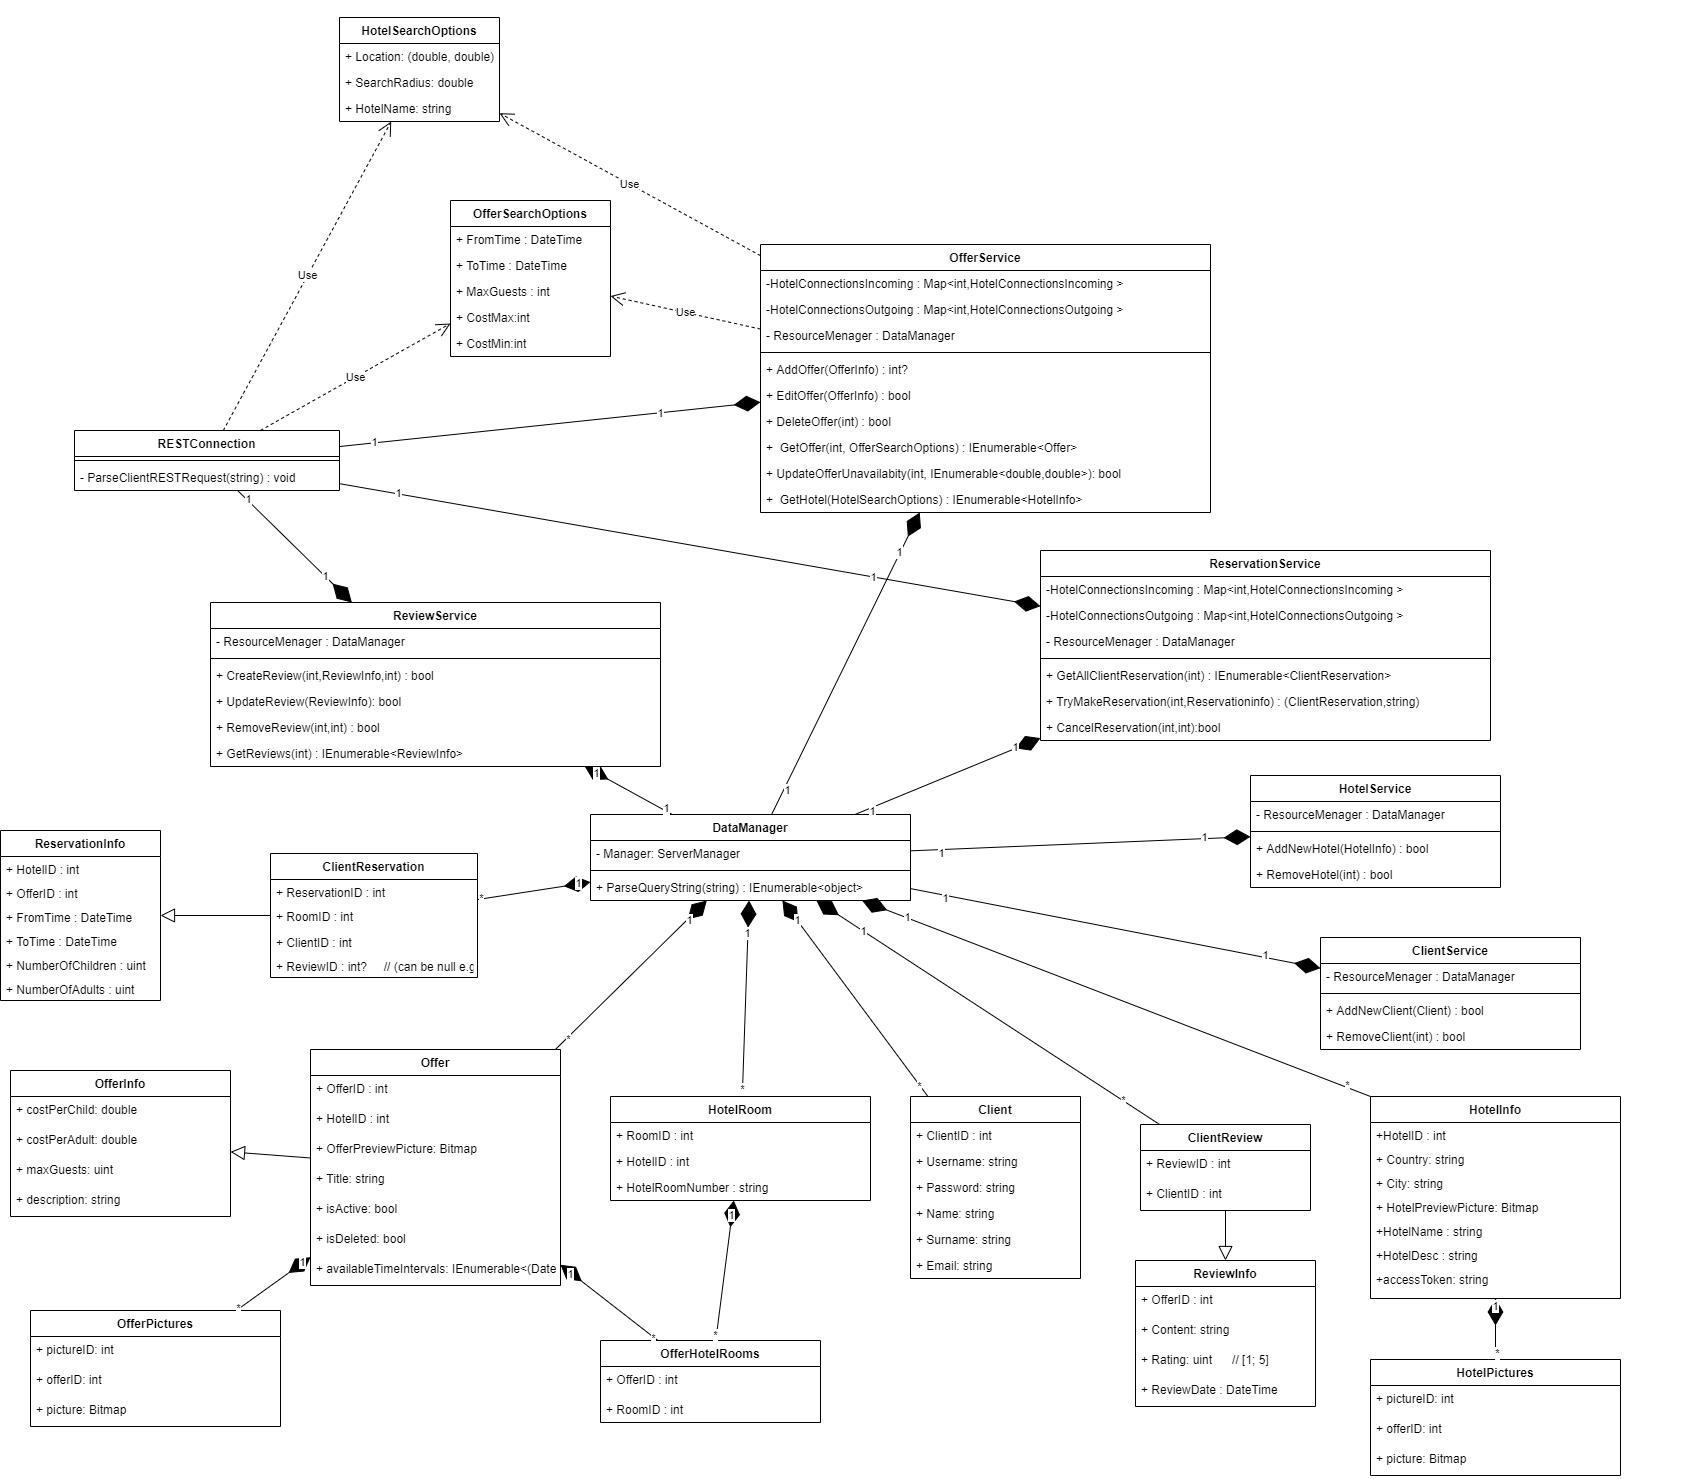
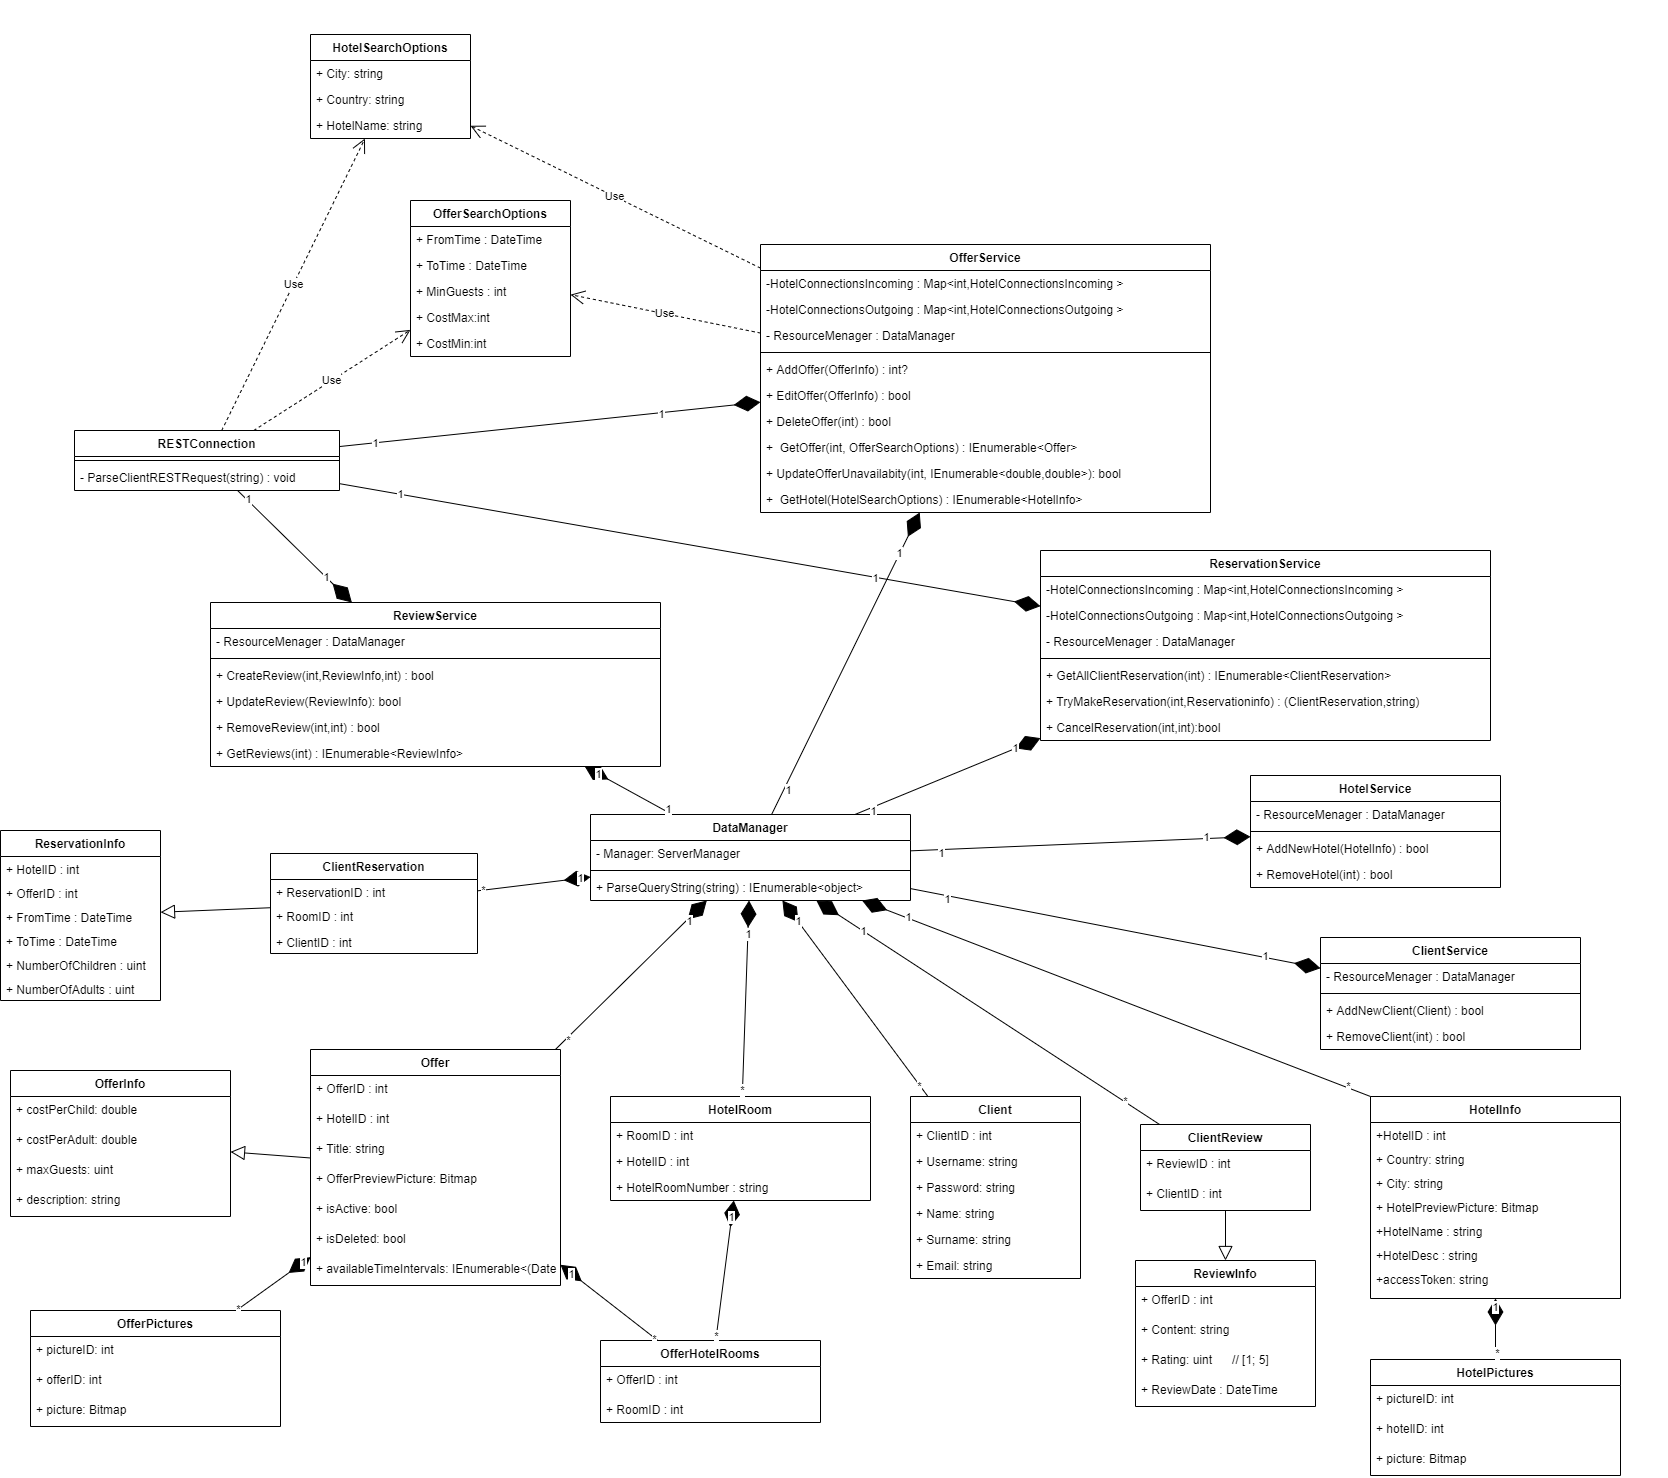
Update specification.md (server class diagram and description)

diff --git a/specification.md b/specification.md
@@ -684,22 +684,12 @@ Klasa przetrzymująca wszystkie informacje o opinii.
 
 ### OfferInfo
 
-Klasa przechowuje informacje opisujące daną ofertę bez informacji o jej
-identyfikatorze oraz stanu dotyczącego aktywności.
+Klasa przechowuje informacje opisujące daną ofertę
 
-### Offer
-
-Klasa przechowuje informacje dotyczące różnych rodzajów ofert, jakie
-proponuje właściciel hotelu swoim potencjalnym klientom. Ponadto
-przechowywana jest informacja o tym czy oferta jest aktywna oraz jej
-identyfikator.
-
-### Room
+### RoomInfo
 
 `Pokój` jest klasą, która reprezentuje fizyczny pokój obecny w budynku
-hotelowym. Jego identyfikacja leży całkowicie w gestii zarządcy
-hotelowego. Ma odwołanie do `Offer`, w ramach której jest przedstawiany
-na stronie.
+hotelowym.
 
 ### Client
 
@@ -731,96 +721,6 @@ wszystkich opisanych wyżej klas.
 Przechowuje informacje o danym hotelu, takie jak lokalizacja, nazwa czy
 jego opis.
 
-### ServerConnectionIncoming
-
-Klasa stanowiąca pomost w komunikacji między hotelem oraz serwerem dla
-wiadomości inicjowanych przez serwer. Głównym zadaniem tej klasy jest
-więc interpretacja żądań formułowanych przez serwer, ich przetwarzanie i
-zwrócenie stosownych informacji za pomocą metody **SendMessage** czy też
-dalsza komunikacja z modułem serwera. Metody:
-
--   Login\
-    Metoda wywoływana w czasie nawiązywania połączenia ze stosownym
-    gniazdem sieciowym po stronie serwera. Do autentykacji używany jest
-    nadany hotelowi authenticationKey. Zwraca boola czy operacja się
-    powiodła.
-
--   SendMessage\
-    Podstawowy sposób wysyłania wiadomości do serwera. Wiadomość jest
-    przekazywana do metody jako parametr typu string. Metoda ta ma na
-    celu zagwarantowanie poprawnego przesyłu danych (np. ponawianie prób
-    wysyłania w przypadku chwilowego przerwania połączenia). Zwracany
-    jest typ bool, który mówi o udanym transferze danych przez gniazdo
-    sieciowe.
-
--   ParseServerMessage\
-    W tej metodzie analizowana jest wiadomość wysłana przez serwer.
-    Poprzez interpretację otrzymanego kodu operacyjnego następuję
-    rozpoznanie rodzaju żądania i jego stosowna obsługa w oparciu o
-    przesłane parametry.
-
-### ServerConnectionOutgoing
-
-Klasa stanowiąca pomost w komunikacji między hotelem oraz serwerem dla
-wiadomości inicjowanych przez hotel. Metody wewnątrz tej klasy są
-kluczowe dla poprawnej synchronizacji danych pomiędzy modułami
-hotel-serwer. Ponadto występują metody implementujące procesy biznesowe
-i związane z nimi procesy komunikacji. W prywatnym polu ProcessList
-przechowywane są aktualnie przetwarzane procesy biznesowe wraz z kodem
-operacyjnym ostatniej wysłanej wiadomości i jej treścią (informacje te
-są potrzebne do rozróżnienia tych samych procesów biznesowych oraz
-aktualnego kontekstu danego procesu biznesowego i oczekiwanych kodów
-operacyjnych w wiadomościach zwrotnych, a także dalszej obsługi
-wychodzącego żądania po otrzymaniu pozytywnej odpowiedzi od serwera).
-Każda metoda związana z procesem biznesowym wywołuje odpowiednie metody
-klasy HotelManager i w zależności od sukcesu lub rodzaju błędu
-otrzymanego od HotelManager (np. w postaci wyjątku określonego typu)
-tworzy żądania i odpowiedzi o odpowiednich kodach operacyjnych
-jednocześnie implementując cały ciąg wiadomości (i związanych z nimi
-kodami operacyjnymi) oraz obsługę błędów związaną z danym procesem
-biznesowym. Metody:
-
--   Login\
-    Metoda wywoływana w czasie nawiązywania połączenia ze stosownym
-    gniazdem sieciowym po stronie serwera. Do autentykacji używany jest
-    nadany hotelowi authenticationKey. Zwraca boola czy operacja się
-    powiodła.
-
--   ParseServerMessage\
-    W tej metodzie analizowana jest odpowiedź serwera związana z danym
-    ID kontekstu procesu. ID kontekstu procesu jest szukane w prywatnym
-    polu ProcessList w celu zidentyfikowania ostatniej wysłanej
-    wiadomości i odtworzenia kontekstu procesu biznesowego. W zależności
-    od otrzymanej odpowiedzi proces może się zakończyć lub mogą zostać
-    ponownie wywołane odpowiednie metody z klasy HotelManager, utworzona
-    nowa wiadomość (żądanie) i kontynuacja procesu biznesowego.
-
--   SendMessage\
-    Podstawowy sposób wysyłania wiadomości do serwera. Wiadomość jest
-    przekazywana do metody jako parametr typu string. Metoda ta ma na
-    celu zagwarantowanie poprawnego przesyłu danych (np. ponawianie prób
-    wysyłania w przypadku chwilowego przerwania połączenia). Zwracany
-    jest typ bool, który mówi o udanym transferze danych przez gniazdo
-    sieciowe.
-
--   AddOffer\
-    Metoda dodaje do serwerowej i hotelowej bazy danych nową ofertę
-    stworzoną przez managera konta hotelowego (w przypadku sukcesu).\
-    Zwraca wartość bool określającą, czy operacja się powiodła oraz ID,
-    jakie przyjęła oferta po stronie serwera.
-
--   RemoveOffer\
-    Metoda usuwa z serwerowej oraz hotelowej bazy danych ofertę
-    przekazaną jako argument (w przypadku sukcesu).\
-    Zwraca wartość bool określającą, czy operacja się powiodła.
-
--   ActivateOffer, DeactivateOffer\
-    Metoda aktualizuje dostępność oferty przekazanej jako argument
-    metody. Administrator hotelu może ofertę dowolnie zdezaktualizować
-    lub zaktualizować ponownie, manipulując w ten sposób wachlarzem
-    propozycji dla swoich potencjalnych klientów (więcej nt. stanów
-    klasy Offer patrz: (offerStateDiagram)
-    Zwraca wartość bool określającą, czy operacja się powiodła.
 
 ### HotelManager
 
@@ -888,20 +788,7 @@ ServerConnectionOutgoing. Metody:
 ### Client
 
 Klasa trzyma informacje o kliencie. Przedstawia jeden rekord z bazy
-danych.
-
-### ClientConnection
-
-Klasa ta to interfejs sieciowy pomiędzy aplikacją kliencką i serwerem.
-Klasa w metodzie `ParseClientRESTRequest` implementuje procesy biznesowe
-związane z REST API, z których korzystają klienci. W zależności od
-żądania wywoływane są odpowiednie metody klasy ServerManager i zwracane
-są klientowi dane lub błąd (co wynika np. ze zwrócenia błędu przez
-odpowiednią metodę klasy ServerManager, bądź wyrzuceniem określonego
-typu wyjątku). Klasa ta może również przekazać żądanie do konkretnego
-hotelu wykorzystując metodę `GetHotelConnection` w ramach dalszej
-realizacji określonego procesu biznesowego (np. tworzenie rezerwacji)
-jednocześnie oczekując na odpowiedź od hotelu.
+danych. W tabeli tej znajduję się równiez informacje potrzebne to zalogowania klienta do serwisu.
 
 ### DataManager
 
@@ -911,7 +798,8 @@ ServerManager.
 
 ### HotelInfo
 
-Klasa trzymająca informacje o hotelach korzystających z serwisu.
+Klasa trzymająca informacje o hotelach korzystających z serwisu wraz z tokenami dostępu dla każdego hotelu.
+Z tabelą tą związana jest tabela `HotelPictures`, w której przechowywane są zdjęcia danego hotelu.
 
 ### HotelSearchOptions
 
@@ -938,11 +826,18 @@ identyfikatorze oferty.
 
 ### Offer
 
-Klasa trzymająca wszystkie informacje o ofercie oraz dodatkowo
-informacje o przedziałach czasowych, w których oferta jest niedostępna.
-Informacja ta jest otrzymywana na bieżąco od hotelu w ramach procesu
-synchronizacji danych. ID oferty jest unikatowe w obrębie jednego hotelu
-(nie globalnie).
+Klasa trzymająca wszystkie informacje o ofercie wraz ze zdjęciami związanymi z tą ofertą w tabeli `OfferPictures` oraz dodatkowo
+informacje o przedziałach czasowych, w których oferta jest dostępna.
+
+### OfferHotelRooms
+
+Klasa reprezentująca tabelę przetrzymującą informację o pokojach hotelowych, w których mogą
+się odbywać rezerwacje w ramach określonych ofert
+
+### HotelRoom
+
+Klasa reprezentjąca tabelę przetrzymująca informację o dostępnych pokojach hotelowych wraz
+z lokalnie adanym identyfikatorem hotelowym danego pokoju (HotelRoomNumber)
 
 ### ReviewInfo
 
@@ -951,77 +846,7 @@ opinii bądź przynależności opinii do konkretnego użytkownika.
 
 ### ClientReview
 
-Zawiera wszystkie informacje o pojedynczej opinii.
-
-### HotelConnectionIncoming
-
-Klasa stanowiąca pomost w komunikacji między hotelem oraz serwerem dla
-wiadomości inicjowanych przez hotel. Głównym zadaniem tej klasy jest
-więc interpretacja żądań formułowanych przez hotel, ich przetwarzanie i
-zwrócenie stosownych informacji za pomocą metody **SendMessage** czy też
-dalsza komunikacja z modułem serwera.
-
--   SendMessage\
-    Podstawowy sposób wysyłania wiadomości do hotelu. Wiadomość jest
-    przekazywana do metody jako parametr typu string. Metoda ta ma na
-    celu zagwarantowanie poprawnego przesyłu danych (np. ponawianie prób
-    wysyłania w przypadku chwilowego przerwania połączenia). Zwracany
-    jest typ bool, który mówi o udanym transferze danych przez gniazdo
-    sieciowe.
-
--   ParseServerMessage\
-    W tej metodzie analizowana jest wiadomość wysłana przez hotel.
-    Poprzez interpretację otrzymanego kodu operacyjnego następuję
-    rozpoznanie rodzaju żądania i jego stosowna obsługa w oparciu o
-    przesłane parametry.
-
-### HotelConnectionOutgoing
-
-Klasa reprezentująca procesy biznesowe, dla których żądania wysyłane są
-z serwera do hotelu. Każda instancja tej klasy zawiera informacje o
-hotelu, w ramach którego utrzymywane jest połączenie sieciowe (pole
-Hotel). Ponadto zawarte jest prywatne pole ProcessList, w którym zawarte
-są informacje o wszystkich bieżąco realizowanych procesach biznesowych
-wraz z ich ID kontekstu, kodem ostatnio wysłanej wiadomości oraz danymi
-związanymi z ostatnio wysłaną wiadomością. Metody:
-
--   ParseHotelMessage\
-    W tej metodzie analizowana jest odpowiedź hotelu związana z danym ID
-    kontekstu procesu. ID procesu jest wiązane z ID procesu zapisanym w
-    polu ProcessList. W zależności od otrzymanej odpowiedzi proces może
-    się zakończyć lub mogą zostać ponownie wywołane odpowiednie metody z
-    klasy ServerManager, utworzona nowa wiadomość (żądanie) i
-    kontynuacja procesu biznesowego.
-
--   SendMessage\
-    Podstawowy sposób wysyłania wiadomości do hotelu. Wiadomość jest
-    przekazywana do metody jako parametr typu string. Metoda ta ma na
-    celu zagwarantowanie poprawnego przesyłu danych (np. ponawianie prób
-    wysyłania w przypadku chwilowego przerwania połączenia). Zwracany
-    jest typ bool, który mówi o udanym transferze danych przez gniazdo
-    sieciowe.
-
--   MakeReservation\
-    Metoda, która tworzy proces związany z utworzeniem nowej rezerwacji.
-    Wysyłane jest odpowiednie żądanie do hotelu oraz odkładane jest na
-    listę ProcessList ID nowego procesu związanego z utworzeniem nowej
-    rezerwacji. W przypadku sukcesu tworzony jest wpis w tabeli
-    ClientReservations o nowo utworzonej rezerwacji.
-
--   CancelReservation\
-    Metoda, która tworzy proces związany z anulowaniem nowej rezerwacji.
-    Wysyłane jest odpowiednie żądanie do hotelu oraz odkładane jest na
-    listę ProcessList ID nowego procesu związanego z utworzeniem nowej
-    rezerwacji. W przypadku sukcesu usuwany jest lokalny wpis o
-    rezerwacji klienta.
-
--   Synchronize\
-    Metoda, która tworzy proces związany z synchronizacją danych
-    dotyczących dostępności oferty. Wysyłane jest odpowiednie żądanie do
-    hotelu oraz odkładane jest na listę ProcessList ID nowego procesu
-    związanego z utworzeniem nowej rezerwacji. W przypadku sukcesu
-    aktualizowane są dane o dostępności określonej oferty za pomocą
-    metody UpdateOfferUnavailability klasy ServerManager.
+Zawiera wszystkie informacje o pojedynczej opinii łącznie z ID klienta i ID oferty.
 
 ### ReservationService
 
@@ -1113,6 +938,11 @@ hoteli z bazy danych. Metody:
 
 -   RemoveHotel\
     Usunięcie z systemu hotelu.
+
+### RESTConnection
+
+Klasa odpowiadająca za przetworzenie przychodzących rządań HTTP klientów oraz hoteli, odpowiednie
+oddelegowanie akcji związanych z tymi żądaniami oraz odesłaniem odpowiedzi na żądania.
 
 # Diagramy stanu
 
